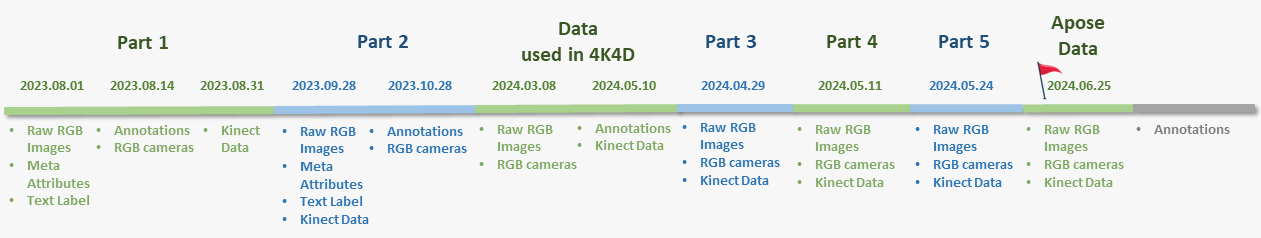
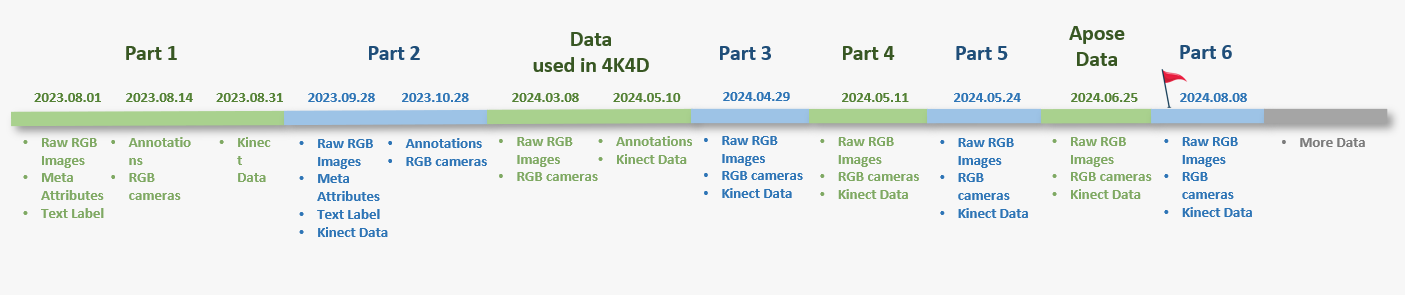
upload part7's data

diff --git a/inner-download.html b/inner-download.html
@@ -172,6 +172,7 @@
             <td><b>Part 3</b></td>
             <td><b>Part 4</b></td>
             <td><b>Part 5</b></td>
+            <td><b>Part 6</b></td>
           </tr>
           <tr>
             <th>Actors</th>
@@ -180,6 +181,7 @@
             <td>103</td>
             <td>115</td>
             <td>145</td>
+            <td>189</td>
           </tr>
           <tr>
             <th>Motions Sequences</th>
@@ -188,27 +190,28 @@
             <td>309</td>
             <td>345</td>
             <td>435</td>
+            <td>567</td>
           </tr>
           <tr>
             <th>
               RGB Cameras<br>
               <div class="details">(with known camera matrix and color calibration parameters)</div>
             </th>
-            <td colspan="5">60</td>
+            <td colspan="6">60</td>
             <!-- <td>60</td> -->
           </tr>
           <tr>
             <th>Kinect Depth Cameras<br>
               <div class="details">(with known camera matrix)</div>
             </th>
-            <td colspan="5">8</td>
+            <td colspan="6">8</td>
             <!-- <td>8</td> -->
           </tr>
           <tr>
             <th>Image Dimension<br>
               <div class="details">(height x weight)</div>
             </th>
-            <td colspan="5">
+            <td colspan="6">
                 cameraID in [0, 47]: 2448 x 2048<br>
                 cameraID in [48, 59]: 4096 x 3000<br>
                 depth_cameraID in [0, 7]: 576 x 640
@@ -223,6 +226,7 @@
             <td>4,171,500</td>
             <td>4,657,500</td>
             <td>5,872,500</td>
+            <td>7,654,500</td>
           </tr>
           <tr>
             <th>Total Kinect Depth Frames<br>
@@ -233,6 +237,7 @@
             <td>556,220</td>
             <td>621,000</td>
             <td>783,000</td>
+            <td>1,020,600</td>
           </tr>
           <tr>
             <th>Total Kinect Mask Frames<br>
@@ -243,6 +248,7 @@
             <td>556,220</td>
             <td>621,000</td>
             <td>783,000</td>
+            <td>1,020,600</td>
           </tr>
           <tr>
             <th>2D keypoints<br>
@@ -253,11 +259,13 @@
             <td>/</td>
             <td>/</td>
             <td>/</td>
+            <td>/</td>
           </tr>
           <tr>
             <th>3D keypoints</th>
             <td>8,550</td>
             <td>83,325</td>
+            <td>/</td>
             <td>/</td>
             <td>/</td>
             <td>/</td>
@@ -271,11 +279,13 @@
             <td>/</td>
             <td>/</td>
             <td>/</td>
+            <td>/</td>
           </tr>
           <tr>
             <th>SMPLx</th>
             <td>8,550</td>
             <td>83,325</td>
+            <td>/</td>
             <td>/</td>
             <td>/</td>
             <td>/</td>
@@ -287,6 +297,7 @@
             <td>~1.65T</td>
             <td>~1.7T</td>
             <td>~2.2T</td>
+            <td>~2.9T</td>
           </tr>
         </table>
       </div>
@@ -371,6 +382,26 @@
               <div> 
                 <img class="listitemimage" src="assets/img/part5_samples/03.png" width="100%">
                 <center><p>Released actors in the part 5-3</p></center>
+              </div>
+              <div> 
+                <img class="listitemimage" src="assets/img/part6_samples/01.png" width="100%">
+                <center><p>Released actors in the part 6-1</p></center>
+              </div>
+              <div> 
+                <img class="listitemimage" src="assets/img/part6_samples/02.png" width="100%">
+                <center><p>Released actors in the part 6-2</p></center>
+              </div>
+              <div> 
+                <img class="listitemimage" src="assets/img/part6_samples/03.png" width="100%">
+                <center><p>Released actors in the part 6-3</p></center>
+              </div>
+              <div> 
+                <img class="listitemimage" src="assets/img/part6_samples/04.png" width="100%">
+                <center><p>Released actors in the part 6-4</p></center>
+              </div>
+              <div> 
+                <img class="listitemimage" src="assets/img/part6_samples/05.png" width="100%">
+                <center><p>Released actors in the part 6-5</p></center>
               </div>
             </div>
           </div>

diff --git a/assets/css/style.css b/assets/css/style.css
@@ -881,7 +881,7 @@ table th:after{
 }
 
 table td{
-  width: 14%;
+  width: 12%;
   text-align: center;
   background-color: #eee;
   padding: 10px 0;
